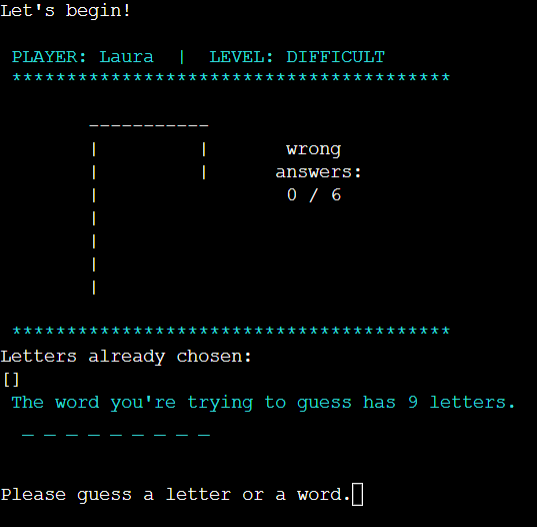
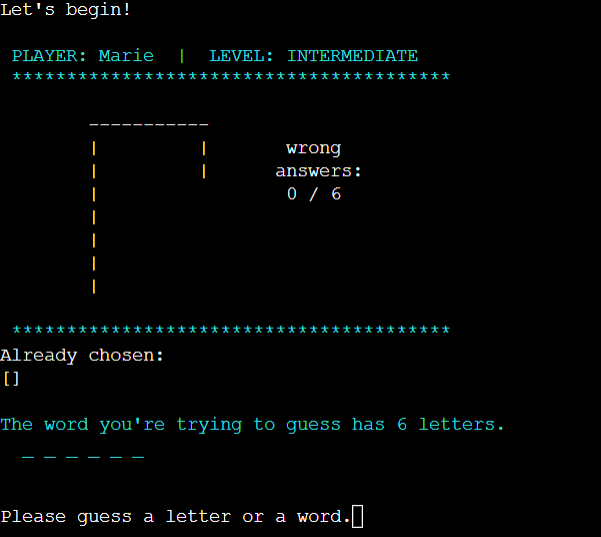
Final edits to README

diff --git a/README.md b/README.md
@@ -33,8 +33,8 @@ Personalization | On the start screen the user is asked their name. The name is 
 |Validation and Error Messages | Every instance of user input, is validated.  When user input is not valid, an error message appears in yellow with a prompt to re-enter the answer. |![screenshot](readme-images/validation%20-%201.png) ![screenshot](readme-images/validation%20-%203.png) |![screenshot](readme-images/validation%20-%202.png) ![screenshot](readme-images/validation%20-%204.png) 
 |Instructions and information | At the beginning of the game simple instructions are displayed with how many errors can be made before losing. Another message explains how many letters are in the secret word. | ![screenshot](readme-images/instructions-info-1.png) |![screenshot](readme-images/instructions-info-2.png)
 |Hangman Displays | The Hangman displays the progression of the game with each error and shows how many errors have been made out of the total allowed of six. | ![screenshot](readme-images/hangman-display-0.png)![screenshot](readme-images/hangman-display-1.png)![screenshot](readme-images/hangman-display-2.png)![screenshot](readme-images/hangman-display-3.png) | ![screenshot](readme-images/hangman-display-4.png)![screenshot](readme-images/hangman-display-5.png)![screenshot](readme-images/hangman-display-6.png) 
-|Letters already chosen section | Letters that have already been chosen appear below the hangman display so the user can see what they've already chosen. If the user chooses the same letter twice, an invalid input message will appear in yellow and they can re-enter. This does not count as a wrong answer. | ![screenshot](readme-images/letters-1.png)  | ![screenshot](readme-images/letters-2.png)  
-|Win and loss screens| The end of game is marked with a splash of color on the win and loss screens with the invitation to either play again or quit the game. | ![screenshot](readme-images/colors-3.png) | ![screenshot](readme-images/colors-4.png) 
+|Already chosen section | Letters that have already been chosen appear below the hangman display so the user can see what they've already chosen. If the user chooses the same letter twice, an invalid input message will appear in yellow and they can re-enter. This does not count as a wrong answer. If the user guesses a word and it is wrong, it will appear in a list below the guessed letters list. The guessed words list will not appear until the user guesses a word incorrectly | ![screenshot](readme-images/already-chosen-letters.png)  | ![screenshot](readme-images/wrong-word.png)  
+|Win and loss screens| The end of game is marked with a splash of color on the win and loss screens with the invitation to either play again or quit the game. | ![screenshot](readme-images/win.png) | ![screenshot](readme-images/colors-4.png) 
 
 ### Future Features
 Hangman-word-game has room to grow
